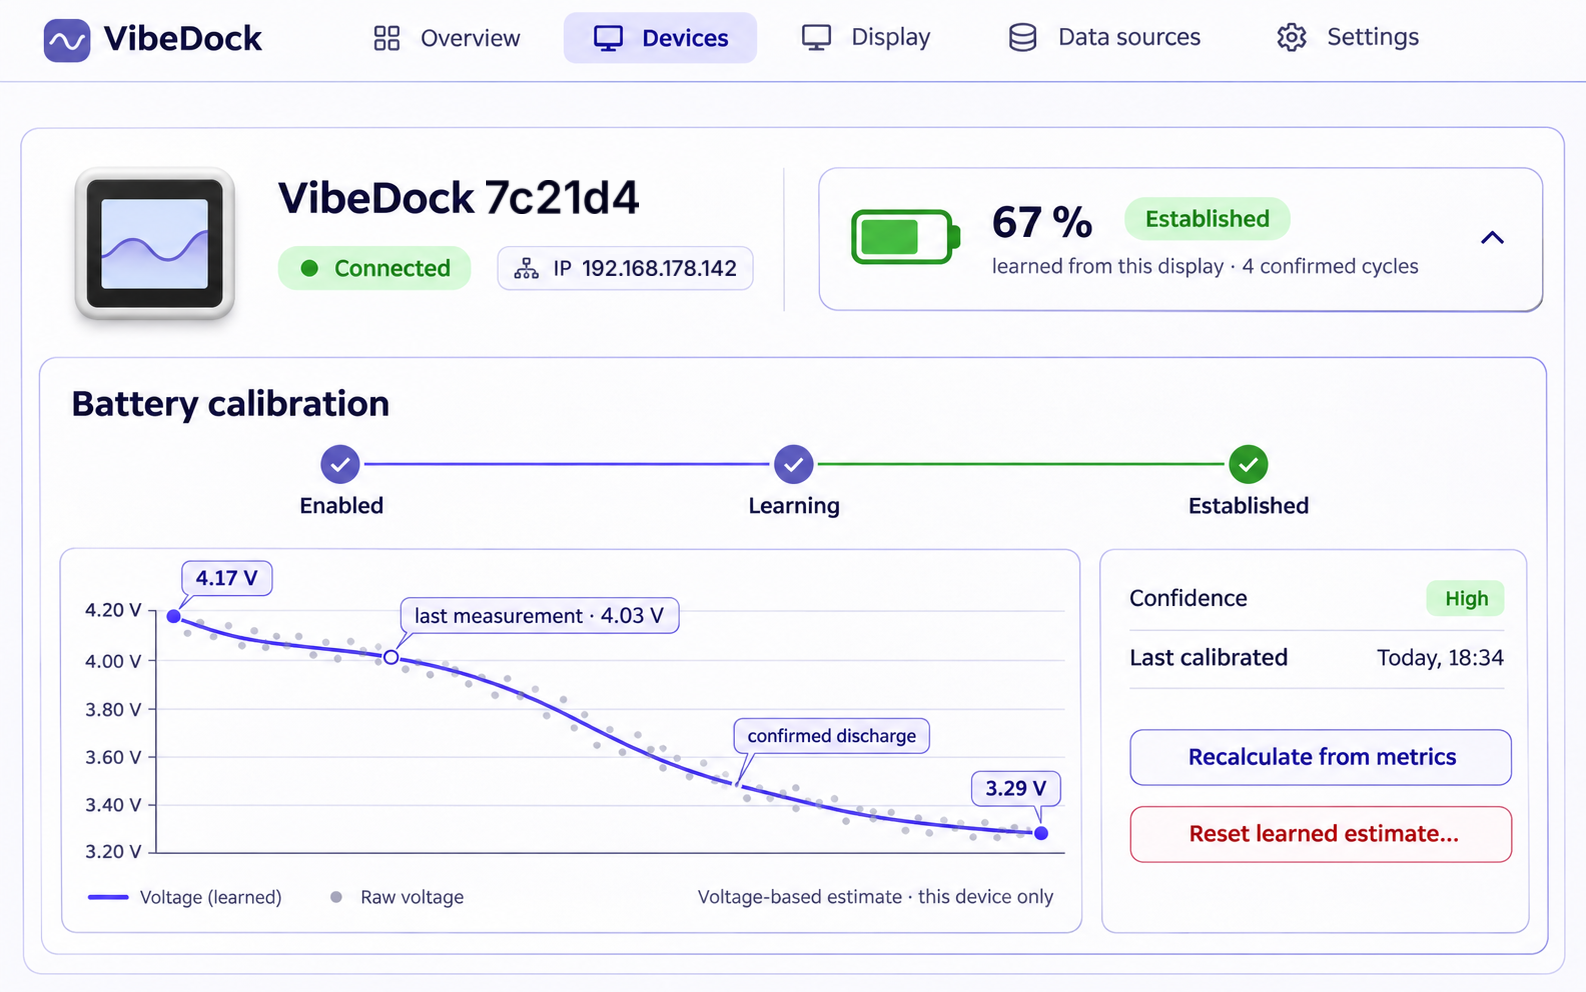
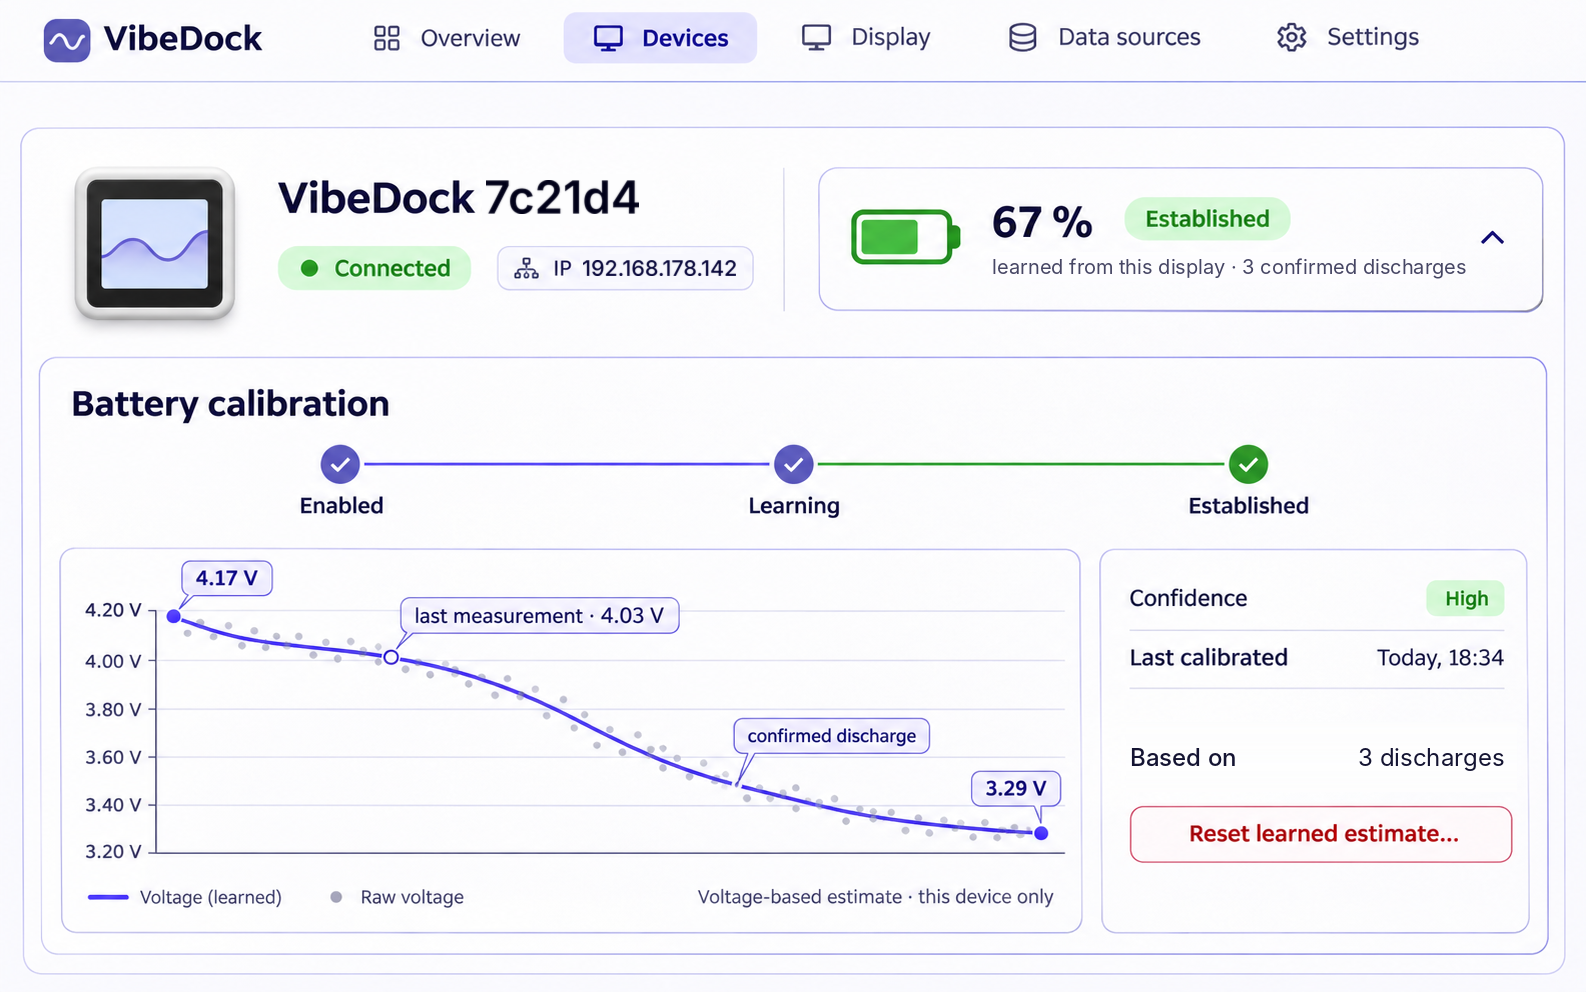
Battery level UI: define the curve merge, align the picture with V1

Changed region(s): [[0.6179, 0.25, 0.9269, 0.2812], [0.7106, 0.75, 0.9578, 0.7812]]

diff --git a/docs/design/battery-level-ui.md b/docs/design/battery-level-ui.md
@@ -41,6 +41,24 @@ four confirmed discharges**, the newest weighing most (weights 4, 3, 2, 1, newes
 they have). Older discharges are not used. The card says how many discharges the curve rests on ("learned from this
 display · 3 confirmed discharges"), never more than were used.
 
+Discharges last differently long and cover different voltage ranges, so they are never averaged point by point in time.
+The mean is formed per voltage:
+
+1. **One curve per discharge.** Each confirmed discharge becomes a curve from smoothed voltage to percent (100 % at its
+   start, 0 % at a failure, 10 % at the end of a discharge that only reached the limit range, as in the learning design).
+   The curve is made monotone: going down in voltage, the percentage never rises.
+2. **A common voltage grid.** Every curve is interpolated linearly at the same voltages (steps of 10 mV).
+3. **Only matching curves.** A discharge is used only if its smoothed voltage range spans at least 0.3 V; a shorter one
+   is skipped and not counted in "confirmed discharges" on the card. The window of four is filled from the remaining
+   confirmed discharges, newest first.
+4. **Weighted mean per voltage.** At each grid voltage the mean uses only the curves that cover this voltage; their weights
+   are renormalised among themselves. A curve is never extrapolated.
+5. **Outside all curves.** Above the highest covered voltage the result is 100 %. Below the lowest covered voltage it is
+   0 % if one of the used discharges ended in a failure, otherwise it stays at the lowest value of the mean (the limit
+   range is not proof of an empty cell).
+6. **Result.** The mean is made monotone once more and is read by interpolating on the grid; a voltage is mapped to a
+   percentage only through this curve.
+
 ## Card states
 
 | Hardware and estimate state | Device-card presentation | User action |
